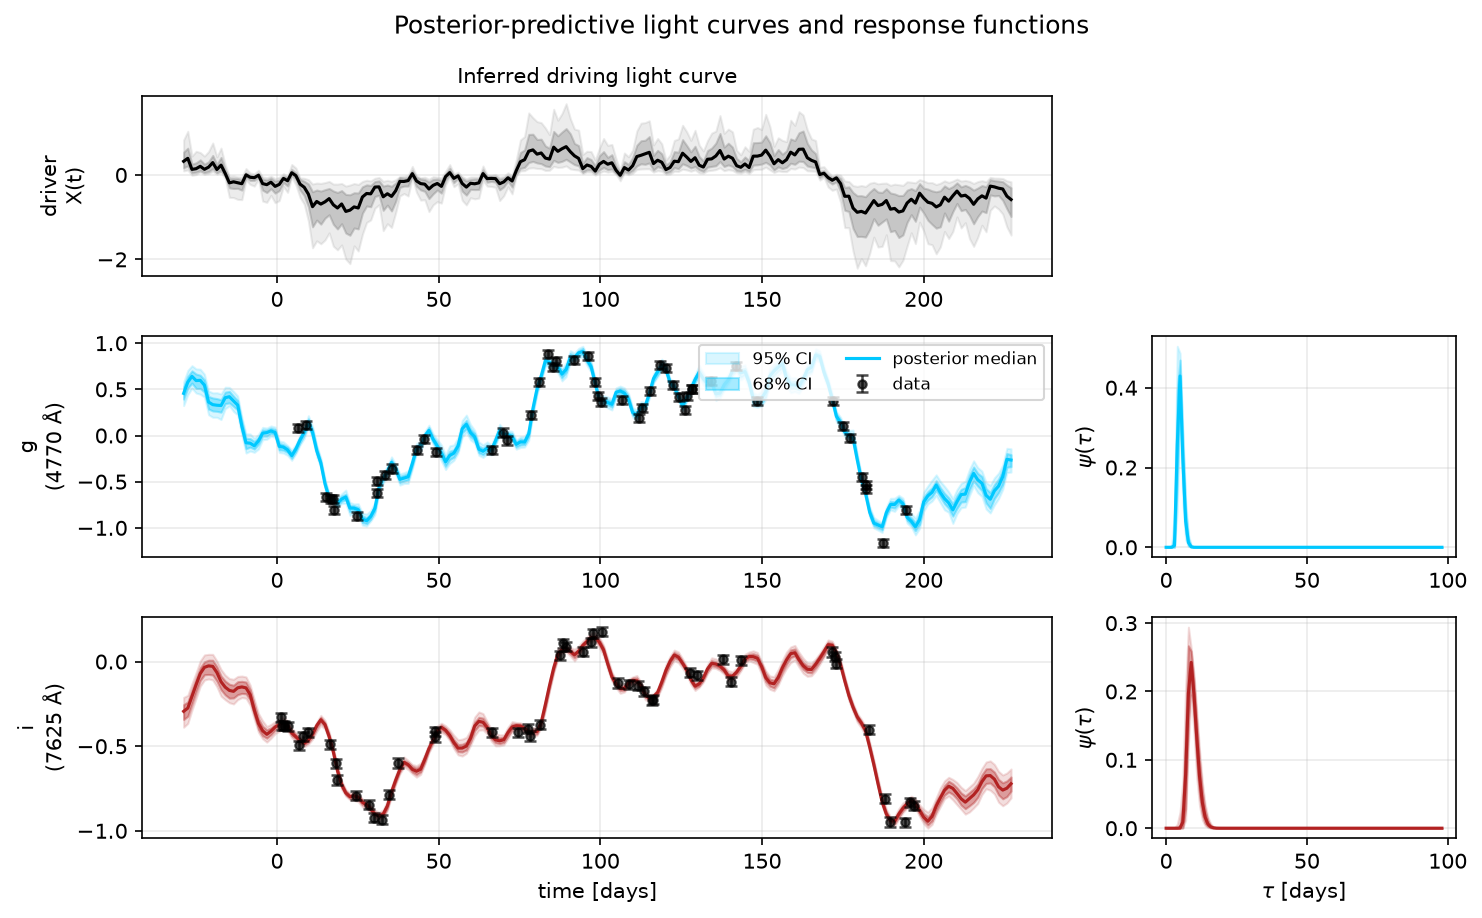
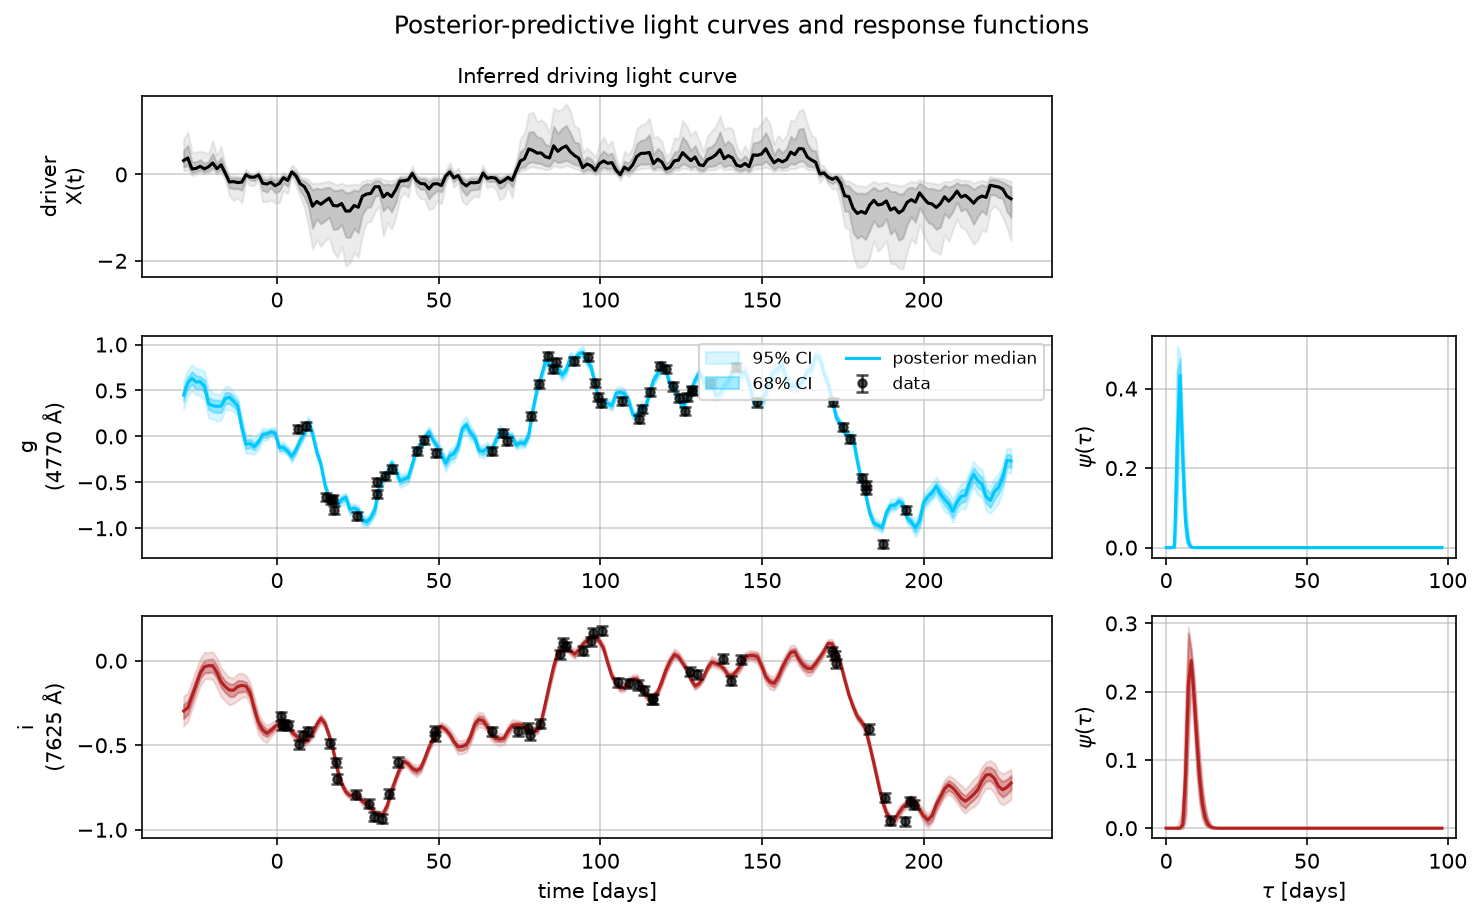
Visible gridlines, a BOF panel in the animation, and remove temperature-profile duplication
- plotting.py / make_fit_animation.py: bumped grid alpha from 0.25 to 0.6.
  The lower value technically drew gridlines, but grid.color's default
  (#b0b0b0, already light grey) at that alpha on white was essentially
  invisible once actually rendered -- confirmed via rendered comparison
  swatches, not just a subjective call.

- make_fit_animation.py: added a sixth panel, Badness of Fit vs. sample
  number, drawn as a growing trace extending one point per frame. Reuses
  ef.extra_fields["potential_energy"] (2 * potential_energy = BOF, per
  decision #11), already collected by every fit by default -- no new
  computation, same quantity plotting.plot_bof already shows for a
  standard (non-animated) report.

- forward_model.py: disk_temperature_profile and thin_disk_response's
  viscous term now share one formula (_viscous_t4_shape) instead of
  duplicating it. Originally kept separate deliberately, to avoid
  regression risk to thin_disk_response for what was then a purely
  cosmetic reuse; revisited after a direct "best not to have duplication
  of code" request now that there's a second real consumer, with the
  existing 20-test thin_disk_response suite (unchanged, all still passing)
  to catch a regression. The two callers' different clipping needs at
  r <= r_in stay separate on purpose -- only the actual T^4 formula moved.

Regenerated docs/images/fit_animation.gif, smoke_test_output/, and updated
CLAUDE.md decision #14 accordingly.

diff --git a/smoke_test_output/report.html b/smoke_test_output/report.html
@@ -9,10 +9,10 @@ code { background: #f2f2f2; padding: 1px 4px; }
 </style></head>
 <body>
 <h1>echofit report</h1>
-<p>fit wall time: <b>37.7s</b> &nbsp;|&nbsp; divergent transitions: <b>0/300</b></p>
+<p>fit wall time: <b>57.1s</b> &nbsp;|&nbsp; divergent transitions: <b>0/300</b></p>
 
 <h2>Posterior summary</h2>
-<table><tr><th>parameter</th><th>posterior mean</th><th>posterior std</th><th>truth</th></tr><tr><td>C_g</td><td>0.1179</td><td>0.01063</td><td>0.1052</td></tr><tr><td>C_i</td><td>-0.311</td><td>0.005945</td><td>-0.3042</td></tr><tr><td>S_g</td><td>1.632</td><td>1.118</td><td>1.482</td></tr><tr><td>S_i</td><td>0.9798</td><td>0.6716</td><td>0.8782</td></tr><tr><td>inclination</td><td>37.65</td><td>22.78</td><td>35</td></tr><tr><td>log_mdot</td><td>-0.1155</td><td>0.06508</td><td>0</td></tr><tr><td>sigma_drw</td><td>0.5009</td><td>0.2625</td><td>0.3</td></tr><tr><td>tau_drw</td><td>51.07</td><td>46.72</td><td>30</td></tr></table>
+<table><tr><th>parameter</th><th>posterior mean</th><th>posterior std</th><th>truth</th></tr><tr><td>C_g</td><td>0.1175</td><td>0.01132</td><td>0.1052</td></tr><tr><td>C_i</td><td>-0.311</td><td>0.005524</td><td>-0.3042</td></tr><tr><td>S_g</td><td>1.613</td><td>1.068</td><td>1.482</td></tr><tr><td>S_i</td><td>0.9639</td><td>0.6394</td><td>0.8782</td></tr><tr><td>cos_inclination</td><td>0.6192</td><td>0.2633</td><td>&mdash;</td></tr><tr><td>inclination</td><td>48.07</td><td>21.83</td><td>35</td></tr><tr><td>log_mdot</td><td>-0.1239</td><td>0.0701</td><td>0</td></tr><tr><td>sigma_drw</td><td>0.5124</td><td>0.2808</td><td>0.3</td></tr><tr><td>tau_drw</td><td>48.96</td><td>37.97</td><td>30</td></tr></table>
 
 <h2>Raw light curves</h2>
 <img src="raw_lightcurves.png">

diff --git a/scripts/make_fit_animation.py b/scripts/make_fit_animation.py
@@ -30,6 +30,10 @@ column is wider than the other two -- ``width_ratios``):
 * per band: its echo light curve (left) and response function psi(tau)
   (middle, x-axis capped at 30 days -- the response itself is always much
   narrower than the full lag grid it's evaluated on).
+* bottom: Badness-of-Fit (``2 * potential_energy``, matching
+  ``plotting.plot_bof``) vs. sample number, drawn as a growing trace that
+  extends one point per frame -- should trend down then flatten as the
+  chain converges.
 
 Every light-curve/psi panel (driver included) also shows 68%/95% credible
 envelopes, matching the shaded bands on the standard (non-animated)
@@ -37,7 +41,9 @@ envelopes, matching the shaded bands on the standard (non-animated)
 envelope only uses samples up to i, not the full run -- so it starts wide
 (next to no constraint from 1-2 samples) and narrows towards the converged
 posterior's own width as the chain accumulates more of them; see
-``_expanding_percentiles``.
+``_expanding_percentiles``. All light-curve/psi/BOF panels have gridlines
+(``alpha=0.6`` -- the matplotlib default ``alpha=0.25`` on its default grey
+turned out to be nearly invisible once actually rendered, not just subtle).
 
 Both disk panels are a genuinely simplified 2-D schematic, not a 3-D/
 raytraced render, and always use the viscous thin-disk profile for the
@@ -181,9 +187,11 @@ def main():
     )(log_mdot))  # (n_frames, n_r)
     T_grid_all = np.broadcast_to(T_per_r[:, :, None], (len(log_mdot_np), _DISK_N_R, _DISK_N_PHI))
 
+    bof = 2.0 * np.asarray(ef.extra_fields["potential_energy"])
+
     n_bands = len(ef.bands)
     fig, axes = plt.subplots(
-        n_bands + 1, 3, figsize=(13, 1.8 * (n_bands + 1)),
+        n_bands + 2, 3, figsize=(13, 1.8 * (n_bands + 2)),
         gridspec_kw={"width_ratios": [3, 1, 1]},
     )
 
@@ -192,6 +200,7 @@ def main():
     ax_drv.set_ylim(driver_samples.min() - y_pad, driver_samples.max() + y_pad)
     ax_drv.set_ylabel("driver X(t)")
     ax_drv.set_title("Driving light curve", fontsize=9)
+    ax_drv.grid(alpha=0.6)
     (driver_line,) = ax_drv.plot([], [], color="black", lw=1.5)
 
     # -- disk-temperature panel: fixed face-on geometry, colour-only updates --
@@ -231,6 +240,7 @@ def main():
         pad = 0.15 * (y.max() - y.min())
         ax_lc.set_ylim(min(y.min(), d["y"].min()) - pad, max(y.max(), d["y"].max()) + pad)
         ax_lc.set_ylabel(f"{name} ({d['wavelength']:.0f} Å)")
+        ax_lc.grid(alpha=0.6)
         (band_lines[name],) = ax_lc.plot([], [], color=colour, lw=1.5, zorder=2)
         ax_lc.sharex(ax_drv)
 
@@ -238,13 +248,28 @@ def main():
         ax_psi.set_ylim(0.0, 1.05 * psi.max())
         ax_psi.set_xlim(0.0, _PSI_XLIM_DAYS)
         ax_psi.set_ylabel(f"{name}\nψ(τ)")
+        ax_psi.grid(alpha=0.6)
         (psi_lines[name],) = ax_psi.plot([], [], color=colour, lw=1.5)
         if row > 1:
             ax_psi.sharex(axes[1, 1])
 
-    axes[-1, 0].set_xlabel("time (days)")
-    axes[-1, 1].set_xlabel("lag τ (days)")
+    axes[n_bands, 0].set_xlabel("time (days)")
+    axes[n_bands, 1].set_xlabel("lag τ (days)")
     ax_drv.set_xlim(float(t_fine.min()), float(t_fine.max()))
+
+    # -- Badness-of-Fit panel: a growing trace, one more point per frame --
+    ax_bof, ax_bof_unused1, ax_bof_unused2 = axes[-1, 0], axes[-1, 1], axes[-1, 2]
+    ax_bof_unused1.axis("off")
+    ax_bof_unused2.axis("off")
+    ax_bof.set_xlim(1, args.num_frames)
+    bof_pad = 0.05 * (bof.max() - bof.min())
+    ax_bof.set_ylim(bof.min() - bof_pad, bof.max() + bof_pad)
+    ax_bof.set_xlabel("sample")
+    ax_bof.set_ylabel("BOF\n(2 × potential energy)")
+    ax_bof.set_title("Badness of Fit", fontsize=9)
+    ax_bof.grid(alpha=0.6)
+    (bof_line,) = ax_bof.plot([], [], color="0.2", lw=1.2)
+
     title = fig.suptitle("")
     fig.tight_layout(rect=(0.0, 0.0, 1.0, 0.94))
 
@@ -255,6 +280,7 @@ def main():
         for name in ef.bands:
             band_lines[name].set_data(t_fine, y_by_band[name][i])
             psi_lines[name].set_data(tau_grid_np, psi_by_band[name][i])
+        bof_line.set_data(np.arange(1, i + 2), bof[: i + 1])
         title.set_text(f"MCMC sample {i + 1}/{args.num_frames}")
 
         # 68%/95% credible envelopes, expanding-window over samples seen so
@@ -280,7 +306,7 @@ def main():
         dx, dy = L * np.sin(incl_rad), L * np.cos(incl_rad)
         disk_line.set_data([-dx, dx], [-dy, dy])
 
-        return [driver_line, title, disk_mesh, disk_title, disk_line,
+        return [driver_line, title, disk_mesh, disk_title, disk_line, bof_line,
                 *band_lines.values(), *psi_lines.values(), *envelope_artists]
 
     ani = FuncAnimation(fig, update, frames=args.num_frames, blit=False)

diff --git a/echofit/forward_model.py b/echofit/forward_model.py
@@ -239,21 +239,46 @@ def _schwarzschild_radius_light_days(M_BH):
     return 2.0 * r_g_m / _LIGHT_DAY_M
 
 
+def _viscous_t4_shape(r_safe, tau_ref, r_in, viscous_slope):
+    """Shakura-Sunyaev viscous ``T**4(r)``, shape-only (normalised to 1 at
+    ``r = tau_ref``, the Wien radius) -- the one formula shared by
+    :func:`disk_temperature_profile` and :func:`thin_disk_response`'s
+    viscous term, so it exists in exactly one place.
+
+    Takes ``tau_ref``/``r_in`` as plain values (not ``log_mdot``/
+    ``wavelength``/``M_BH``) since both callers already compute those for
+    other reasons of their own; takes ``r_safe`` already clipped by the
+    caller rather than clipping internally, since the two callers need
+    genuinely different clipping strategies at ``r <= r_in`` --
+    ``thin_disk_response`` needs a smooth, differentiable-in-inclination
+    cutoff (its ``r_star`` depends on a sampled parameter, handled via a
+    separate sigmoid mask applied to its result) where a hard clip would
+    reintroduce the zero-gradient trap documented on that mask;
+    :func:`disk_temperature_profile` doesn't sample ``r``, so a plain hard
+    clip at ``r_in`` is fine and simpler there.
+    """
+    visc_inner_term = (1.0 - jnp.sqrt(r_in / r_safe)) / jnp.clip(
+        1.0 - jnp.sqrt(r_in / tau_ref), 1e-6, None
+    )
+    return (tau_ref / r_safe) ** (4.0 * viscous_slope) * visc_inner_term
+
+
 def disk_temperature_profile(r, log_mdot, wavelength, M_BH, viscous_slope: float = 0.75):
     """Axisymmetric Shakura-Sunyaev viscous disk temperature (Kelvin) as a
     function of radius ``r`` (light-days).
 
-    Deliberately mirrors ``thin_disk_response``'s own internal ``t4_visc``/
-    Wien's-law computation (same formula, same reference point) rather than
-    the two sharing code, since ``thin_disk_response`` evaluates on a 2-D
-    ``(tau, phi)`` grid via the disk's light-travel-time surface, not a
-    plain radius -- this is for callers that just want "the temperature at
-    radius r" directly, e.g. a disk visualisation (see
-    ``scripts/make_fit_animation.py``), independent of any particular
-    response-function evaluation. Ignores the optional lamppost-irradiation
-    term (``thin_disk_response``'s ``include_irradiation``), which is
-    azimuthally asymmetric and not meaningful for a purely radius-dependent
-    profile.
+    Shares its actual formula with ``thin_disk_response``'s viscous term
+    via :func:`_viscous_t4_shape` (only the clipping-at-the-ISCO and
+    irradiation-mixing steps around it differ, per-caller -- see that
+    function's docstring), rather than the two duplicating it, since
+    ``thin_disk_response`` evaluates on a 2-D ``(tau, phi)`` grid via the
+    disk's light-travel-time surface, not a plain radius -- this is for
+    callers that just want "the temperature at radius r" directly, e.g. a
+    disk visualisation (see ``scripts/make_fit_animation.py``), independent
+    of any particular response-function evaluation. Ignores the optional
+    lamppost-irradiation term (``thin_disk_response``'s
+    ``include_irradiation``), which is azimuthally asymmetric and not
+    meaningful for a purely radius-dependent profile.
 
     Parameters
     ----------
@@ -269,10 +294,7 @@ def disk_temperature_profile(r, log_mdot, wavelength, M_BH, viscous_slope: float
     tau_ref = lag_scaling(log_mdot, wavelength, M_BH)
     r_in = 3.0 * _schwarzschild_radius_light_days(M_BH)
     r_safe = jnp.clip(r, r_in, None)
-    visc_inner_term = (1.0 - jnp.sqrt(r_in / r_safe)) / jnp.clip(
-        1.0 - jnp.sqrt(r_in / tau_ref), 1e-6, None
-    )
-    t4_shape = (tau_ref / r_safe) ** (4.0 * viscous_slope) * visc_inner_term
+    t4_shape = _viscous_t4_shape(r_safe, tau_ref, r_in, viscous_slope)
     t_ref_kelvin = _WIEN_B_ANGSTROM_KELVIN / wavelength
     return t_ref_kelvin * jnp.clip(t4_shape, 1e-12, None) ** 0.25
 
@@ -478,11 +500,9 @@ def thin_disk_response(
     r_star = tau_pos[:, None] / denom[None, :]  # (n_tau, n_phi)
     r_star_safe = jnp.clip(r_star, 1e-12, None)
 
-    # T**4(r), shape-only (normalised to 1 at r = tau_ref, the Wien radius).
-    visc_inner_term = (1.0 - jnp.sqrt(r_in / r_star_safe)) / jnp.clip(
-        1.0 - jnp.sqrt(r_in / tau_ref), 1e-6, None
-    )
-    t4_visc = (tau_ref / r_star_safe) ** (4.0 * viscous_slope) * visc_inner_term
+    # T**4(r), shape-only (normalised to 1 at r = tau_ref, the Wien radius) --
+    # shared with disk_temperature_profile, see _viscous_t4_shape.
+    t4_visc = _viscous_t4_shape(r_star_safe, tau_ref, r_in, viscous_slope)
     if include_irradiation:
         x_star = jnp.sqrt(r_star_safe ** 2 + hx ** 2)
         x_ref = jnp.sqrt(tau_ref ** 2 + hx ** 2)

diff --git a/echofit/plotting.py b/echofit/plotting.py
@@ -129,7 +129,7 @@ def plot_raw_lightcurves(bands: Dict[str, dict], driver: Optional[dict] = None, 
             ecolor="0.2", alpha=0.85, capsize=3, elinewidth=1.2, capthick=1.2,
         )
         ax.set_ylabel("driver")
-        ax.grid(alpha=0.25)
+        ax.grid(alpha=0.6)
         axes = axes[1:]
 
     for ax, (name, d) in zip(axes, ordered):
@@ -138,7 +138,7 @@ def plot_raw_lightcurves(bands: Dict[str, dict], driver: Optional[dict] = None, 
             ecolor=colours[name], alpha=0.85, capsize=3, elinewidth=1.2, capthick=1.2,
         )
         ax.set_ylabel(f"{name}\n({d['wavelength']:.0f} \u00c5)")
-        ax.grid(alpha=0.25)
+        ax.grid(alpha=0.6)
 
     axes[-1].set_xlabel("time [days]")
     fig.suptitle("Raw multi-band light curves")
@@ -215,7 +215,7 @@ def plot_lightcurve_fits(
             ax_drv.legend(fontsize=7, loc="upper right")
         ax_drv.set_ylabel("driver\nX(t)")
         ax_drv.set_title("Inferred driving light curve", fontsize=10)
-        ax_drv.grid(alpha=0.25)
+        ax_drv.grid(alpha=0.6)
         ax_drv.sharex(axes[1, 0])
         ax_drv_unused.axis("off")
 
@@ -234,7 +234,7 @@ def plot_lightcurve_fits(
             ecolor="k", alpha=0.7, capsize=3, elinewidth=1.2, capthick=1.2, label="data",
         )
         ax_lc.set_ylabel(f"{name}\n({d['wavelength']:.0f} \u00c5)")
-        ax_lc.grid(alpha=0.25)
+        ax_lc.grid(alpha=0.6)
         if row == 0:
             ax_lc.legend(fontsize=8, ncol=2, loc="upper right")
 
@@ -244,7 +244,7 @@ def plot_lightcurve_fits(
         ax_psi.fill_between(tau_grid, plo68, phi68, color=colour, alpha=0.35)
         ax_psi.plot(tau_grid, pmed, color=colour, lw=1.5)
         ax_psi.set_ylabel(r"$\psi(\tau)$")
-        ax_psi.grid(alpha=0.25)
+        ax_psi.grid(alpha=0.6)
 
     axes[-1, 0].set_xlabel("time [days]")
     axes[-1, 1].set_xlabel(r"$\tau$ [days]")
@@ -322,7 +322,7 @@ def plot_power_spectrum(
     ax.set_yscale("log")
     ax.set_xlabel(r"$\omega$ [rad/day]")
     ax.set_ylabel(r"$P(\omega)$")
-    ax.grid(alpha=0.25, which="both")
+    ax.grid(alpha=0.6, which="both")
     ax.legend(fontsize=8)
     ax.set_title("Driver power spectrum: posterior vs. fitted DRW prior")
     fig.tight_layout()
@@ -364,7 +364,7 @@ def plot_mcmc_diagnostics(
         for c in range(n_chains):
             ax.plot(arr[c], lw=0.7, alpha=0.8, label=f"chain {c}" if len(param_names) == 1 else None)
         ax.set_ylabel(name, fontsize=9)
-        ax.grid(alpha=0.25)
+        ax.grid(alpha=0.6)
 
     axes[-1].set_xlabel("sample")
     fig.suptitle("MCMC trace diagnostics")
@@ -575,7 +575,7 @@ def plot_bof(potential_energy: np.ndarray, checkpoint_every: Optional[int] = Non
             ax.axvline(x, color="0.7", lw=0.6, zorder=0)
     ax.set_xlabel("sample")
     ax.set_ylabel("BOF (2 x potential energy)")
-    ax.grid(alpha=0.25)
+    ax.grid(alpha=0.6)
     if n_chains > 1:
         ax.legend(fontsize=8)
     ax.set_title("Badness of Fit vs. sample")

diff --git a/CLAUDE.md b/CLAUDE.md
@@ -451,17 +451,28 @@ and package layout.
     worth the most screen space) plus two disk panels, evolving sample by
     sample early in a deliberately short-warmup chain -- the same
     short-warmup chain whose driver amplitude swings motivated decision
-    #13 above. `disk_temperature_profile` factors out the axisymmetric
-    Shakura-Sunyaev `T(r)` calculation `thin_disk_response` already
-    computes internally (same formula, same Wien's-law reference point --
-    see `tests/test_thin_disk_response.py`'s
-    `test_disk_temperature_profile_matches_wien_law_at_the_reference_radius`)
-    so the animation (or any other caller wanting "temperature at radius
-    r" directly) doesn't have to duplicate that physics; deliberately
-    *not* refactored to share code with `thin_disk_response`'s own
-    2-D `(tau, phi)`-grid evaluation, to avoid any regression risk to that
-    already-validated function for a purely cosmetic reuse. Always uses
-    the viscous-only profile at a fixed illustrative reference wavelength
+    #13 above. `disk_temperature_profile` and `thin_disk_response`'s
+    viscous term now share the one actual formula, via `_viscous_t4_shape`
+    (same formula, same Wien's-law reference point -- see
+    `tests/test_thin_disk_response.py`'s
+    `test_disk_temperature_profile_matches_wien_law_at_the_reference_radius`).
+    Originally deliberately *not* shared, to avoid regression risk to the
+    already-validated `thin_disk_response` for what was then a purely
+    cosmetic reuse -- revisited and done anyway after a direct "best not to
+    have duplication of code" request, once there was a second real
+    consumer of the same physics (this decision, the animation) and the
+    existing `thin_disk_response` test suite (20 tests, all passing
+    unchanged after the refactor) to catch a regression if the shared
+    helper got it wrong. `_viscous_t4_shape` takes the two callers'
+    already-clipped radius and the constants they'd already computed
+    (`tau_ref`, `r_in`) rather than clipping internally, since the two
+    callers need genuinely different clipping strategies at `r <= r_in`
+    (`thin_disk_response`'s `r_star` depends on a sampled parameter and
+    needs a smooth cutoff -- handled separately via its own sigmoid mask,
+    same zero-gradient concern as decision #7; `disk_temperature_profile`
+    doesn't sample `r`, so a plain hard clip is fine there) -- the formula
+    is shared, the clipping decision deliberately isn't. Always uses the
+    viscous-only profile at a fixed illustrative reference wavelength
     (5000 Angstrom), regardless of which response function the fit itself
     used or what wavelengths its bands are at -- only the thin-disk
     response family has a literal disk geometry to show, and the picture
@@ -523,6 +534,19 @@ and package layout.
     that request rather than silently re-compressed back down, since
     colour-count reduction was checked and barely helps (96 to 64 colours
     saved well under 1MB) without visibly hurting the smooth gradients.
+
+    **Gridlines on every light-curve/psi/BOF panel (`alpha=0.6`, both here
+    and in `plotting.py`) after direct feedback that the charts "don't
+    have gridlines"** -- they technically did (`alpha=0.25`), but
+    `grid.color`'s default (`#b0b0b0`, already a light grey) at that alpha
+    on a white background turned out to be essentially invisible once
+    actually rendered, not just subtle; confirmed by rendering comparison
+    swatches at several alpha values before picking `0.6`. Also added a
+    sixth panel, Badness of Fit vs. sample (`2 * potential_energy`,
+    matching `plotting.plot_bof`) as a growing trace extending one point
+    per frame -- reuses `ef.extra_fields["potential_energy"]`, already
+    collected by every fit by default (decision #11), so no extra
+    computation, same as the standalone `plot_bof`.
 
 15. **`inclination` is sampled uniform in `cos(inclination)`, not
     `inclination` itself, and `EchoFit(fixed_params={...})` generalises

diff --git a/README.md b/README.md
@@ -23,9 +23,10 @@ coloured by its real-world wavelength (X-ray black, UV violet, visible its
 actual spectral colour, IR+ reddish), a face-on disk-temperature view
 (titled with the frame's current log_mdot/inclination), and a side-on
 schematic where the disk line tilts with inclination while the eye-on-a-
-sphere observer and its line of sight stay fixed -- all early in a NUTS
-chain (short warmup on purpose, so everything is still visibly finding its
-way). Regenerate with `python scripts/make_fit_animation.py`.*
+sphere observer and its line of sight stay fixed, and a Badness-of-Fit
+trace growing one point per sample -- all early in a NUTS chain (short
+warmup on purpose, so everything is still visibly finding its way).
+Regenerate with `python scripts/make_fit_animation.py`.*
 
 ## 🗂 Contents
 
